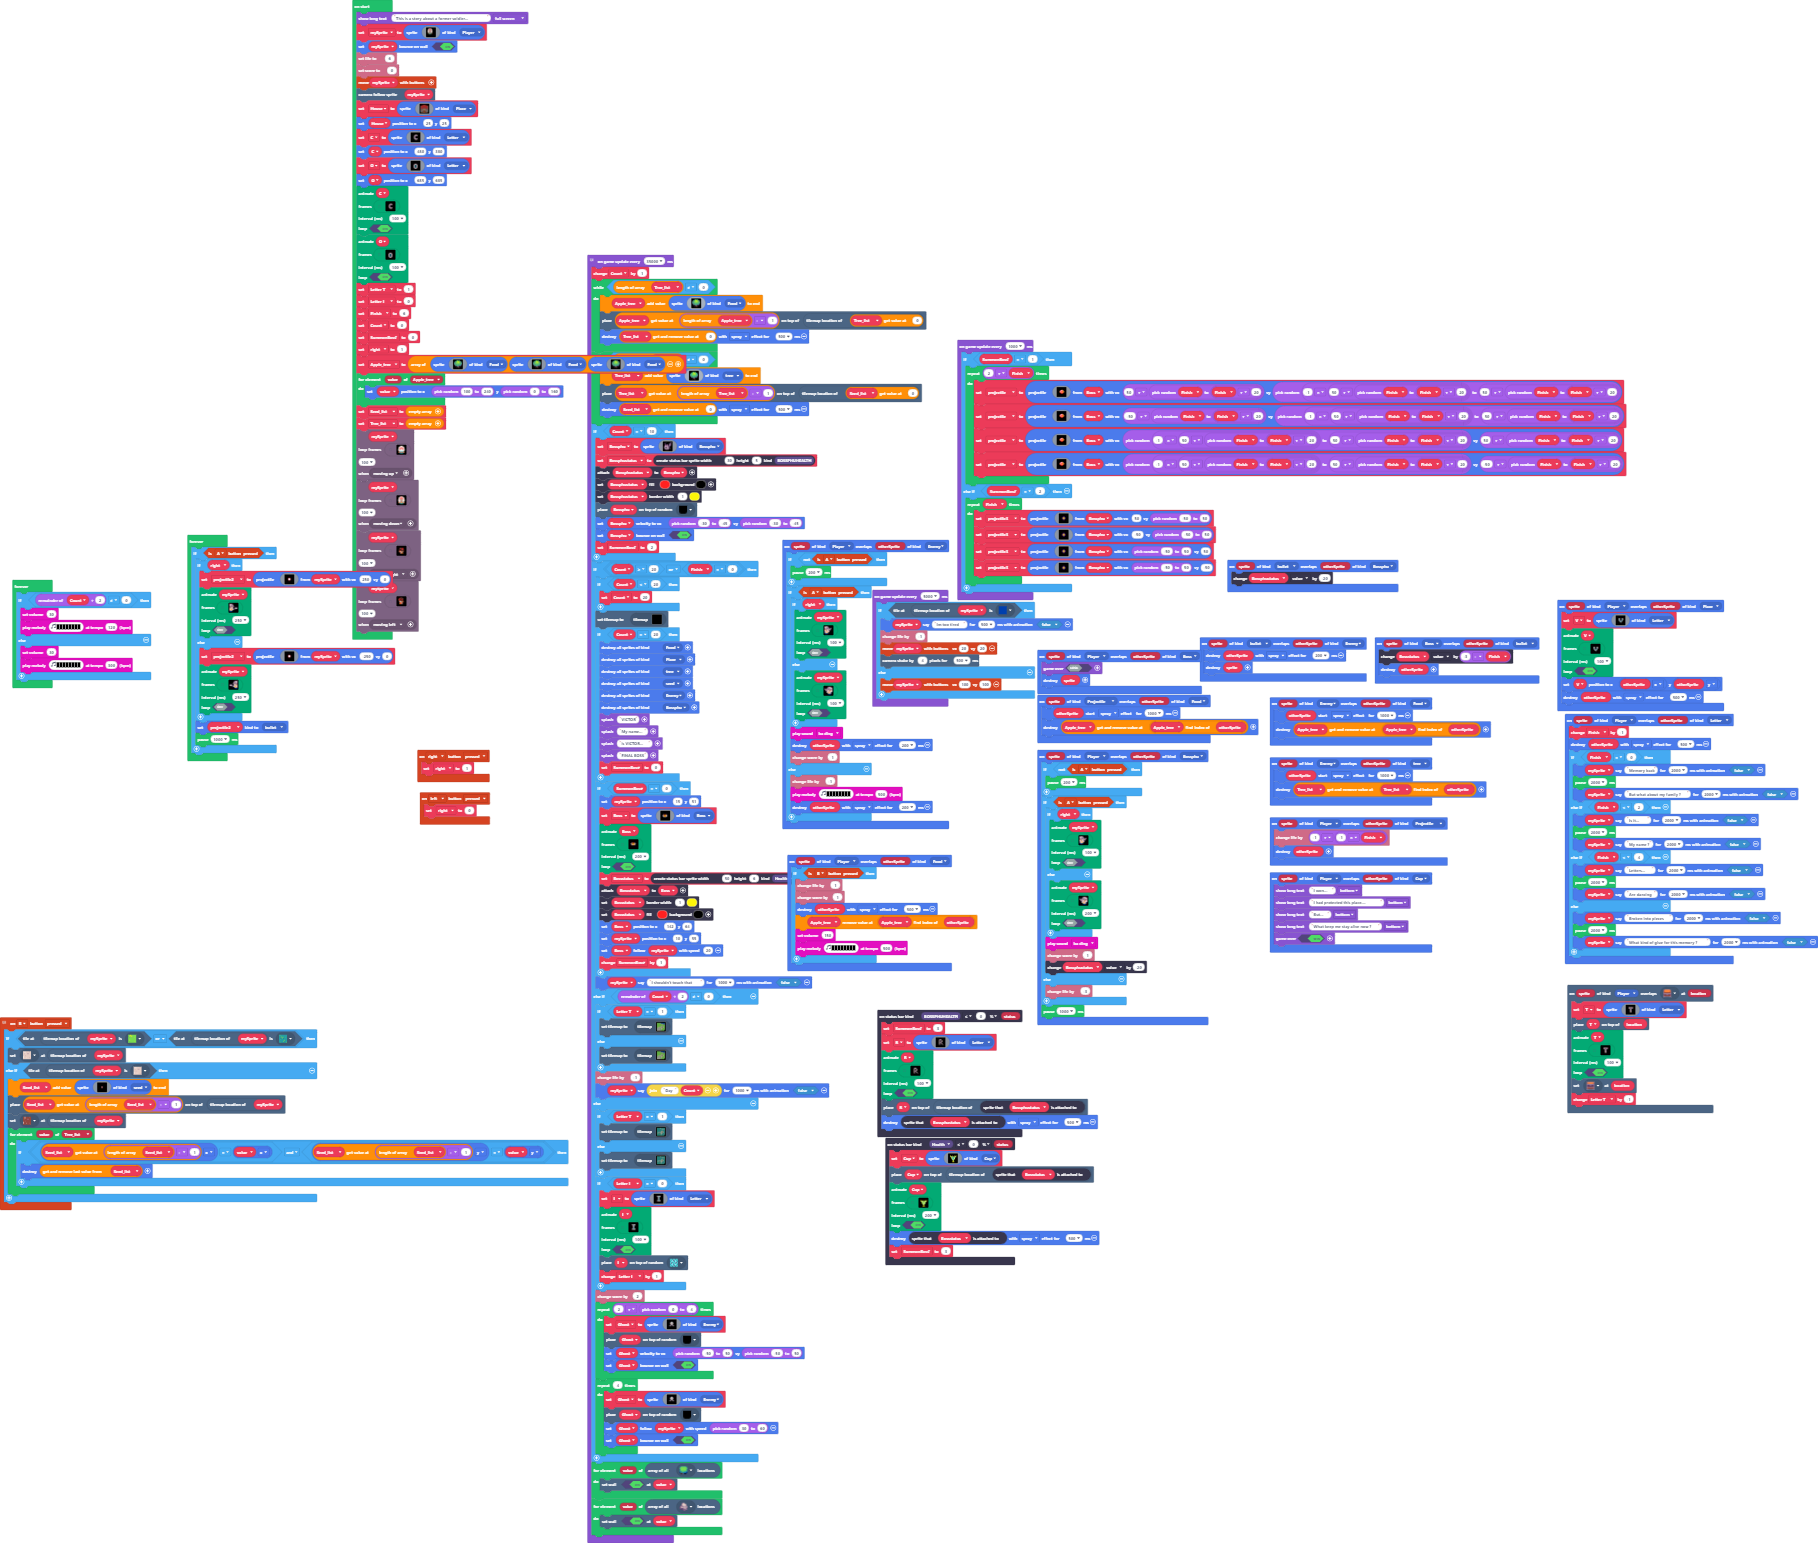
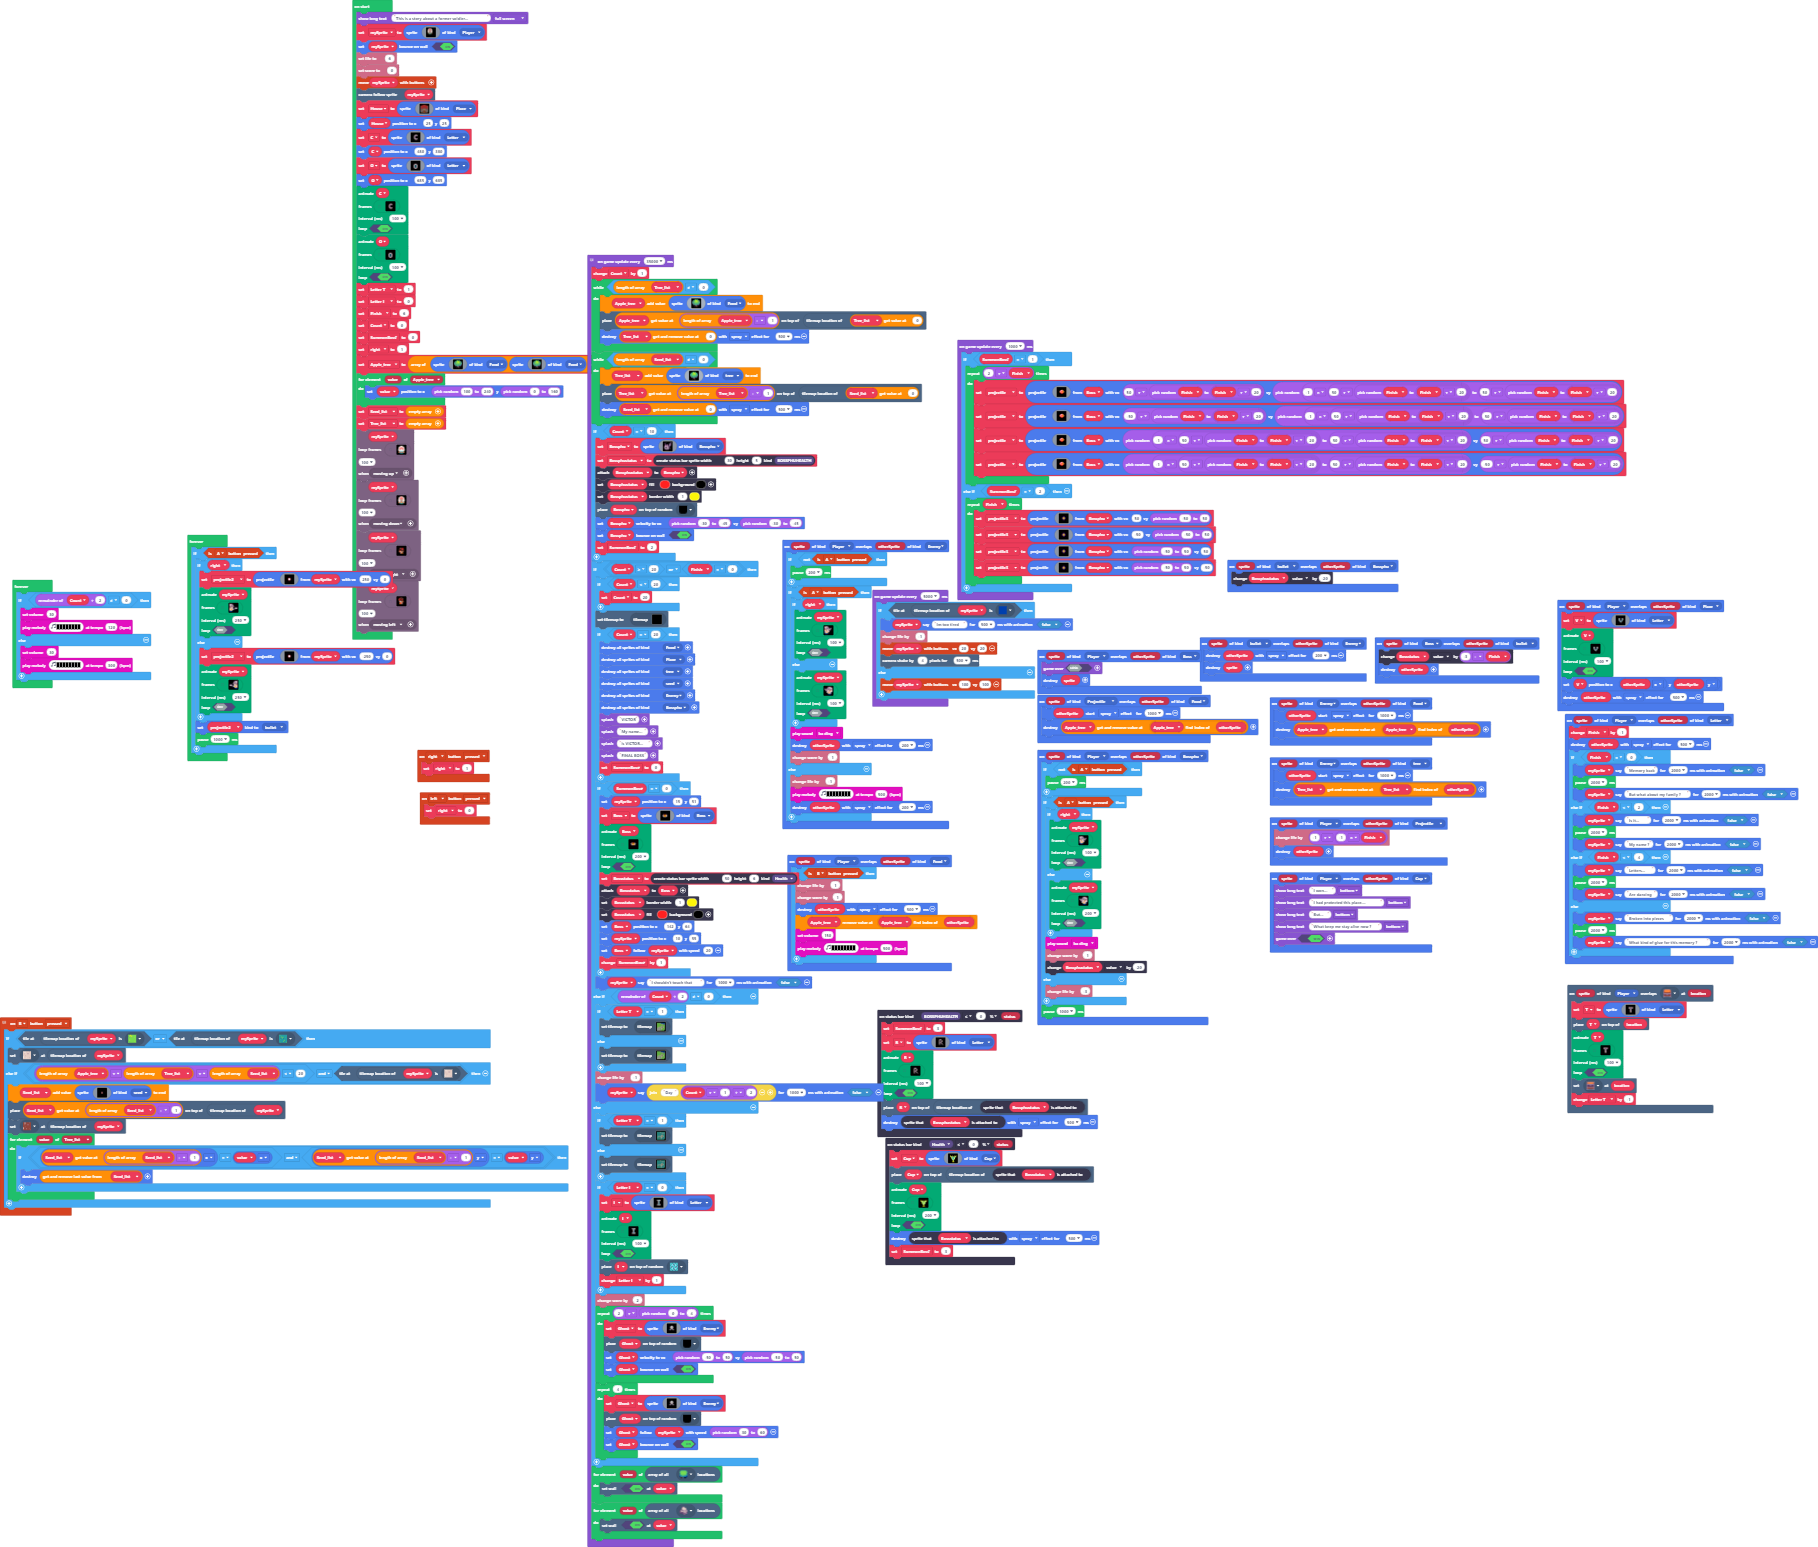
tree number

Changed region(s): [[0.0, 0.1555, 1.0, 0.9332], [0.1848, 0.0622, 0.2464, 0.1866], [0.2156, 0.4666, 0.2772, 0.5288]]

diff --git a/main.ts b/main.ts
@@ -60,7 +60,7 @@ sprites.onOverlap(SpriteKind.Projectile, SpriteKind.Food, function (sprite, othe
 controller.B.onEvent(ControllerButtonEvent.Pressed, function () {
     if (tiles.tileAtLocationEquals(mySprite.tilemapLocation(), sprites.castle.tileGrass1) || tiles.tileAtLocationEquals(mySprite.tilemapLocation(), sprites.castle.tileDarkGrass1)) {
         tiles.setTileAt(mySprite.tilemapLocation(), sprites.castle.tilePath5)
-    } else if (tiles.tileAtLocationEquals(mySprite.tilemapLocation(), sprites.castle.tilePath5)) {
+    } else if (Apple_tree.length + Tree_list.length + Seed_list.length < 20 && tiles.tileAtLocationEquals(mySprite.tilemapLocation(), sprites.castle.tilePath5)) {
         Seed_list.push(sprites.create(assets.image`Seed`, SpriteKind.seed))
         tiles.placeOnTile(Seed_list[Seed_list.length - 1], mySprite.tilemapLocation())
         tiles.setTileAt(mySprite.tilemapLocation(), assets.tile`Dat Trong Cay`)
@@ -706,7 +706,7 @@ game.onUpdateInterval(35000, function () {
             tiles.setCurrentTilemap(tilemap`Day_Off3`)
         }
         info.changeLifeBy(-1)
-        mySprite.sayText("Day " + Count, 1000, false)
+        mySprite.sayText("Day " + (Count + 1) / 2, 1000, false)
     } else {
         if (Letter_T == 1) {
             tiles.setCurrentTilemap(tilemap`Nights_off3`)
